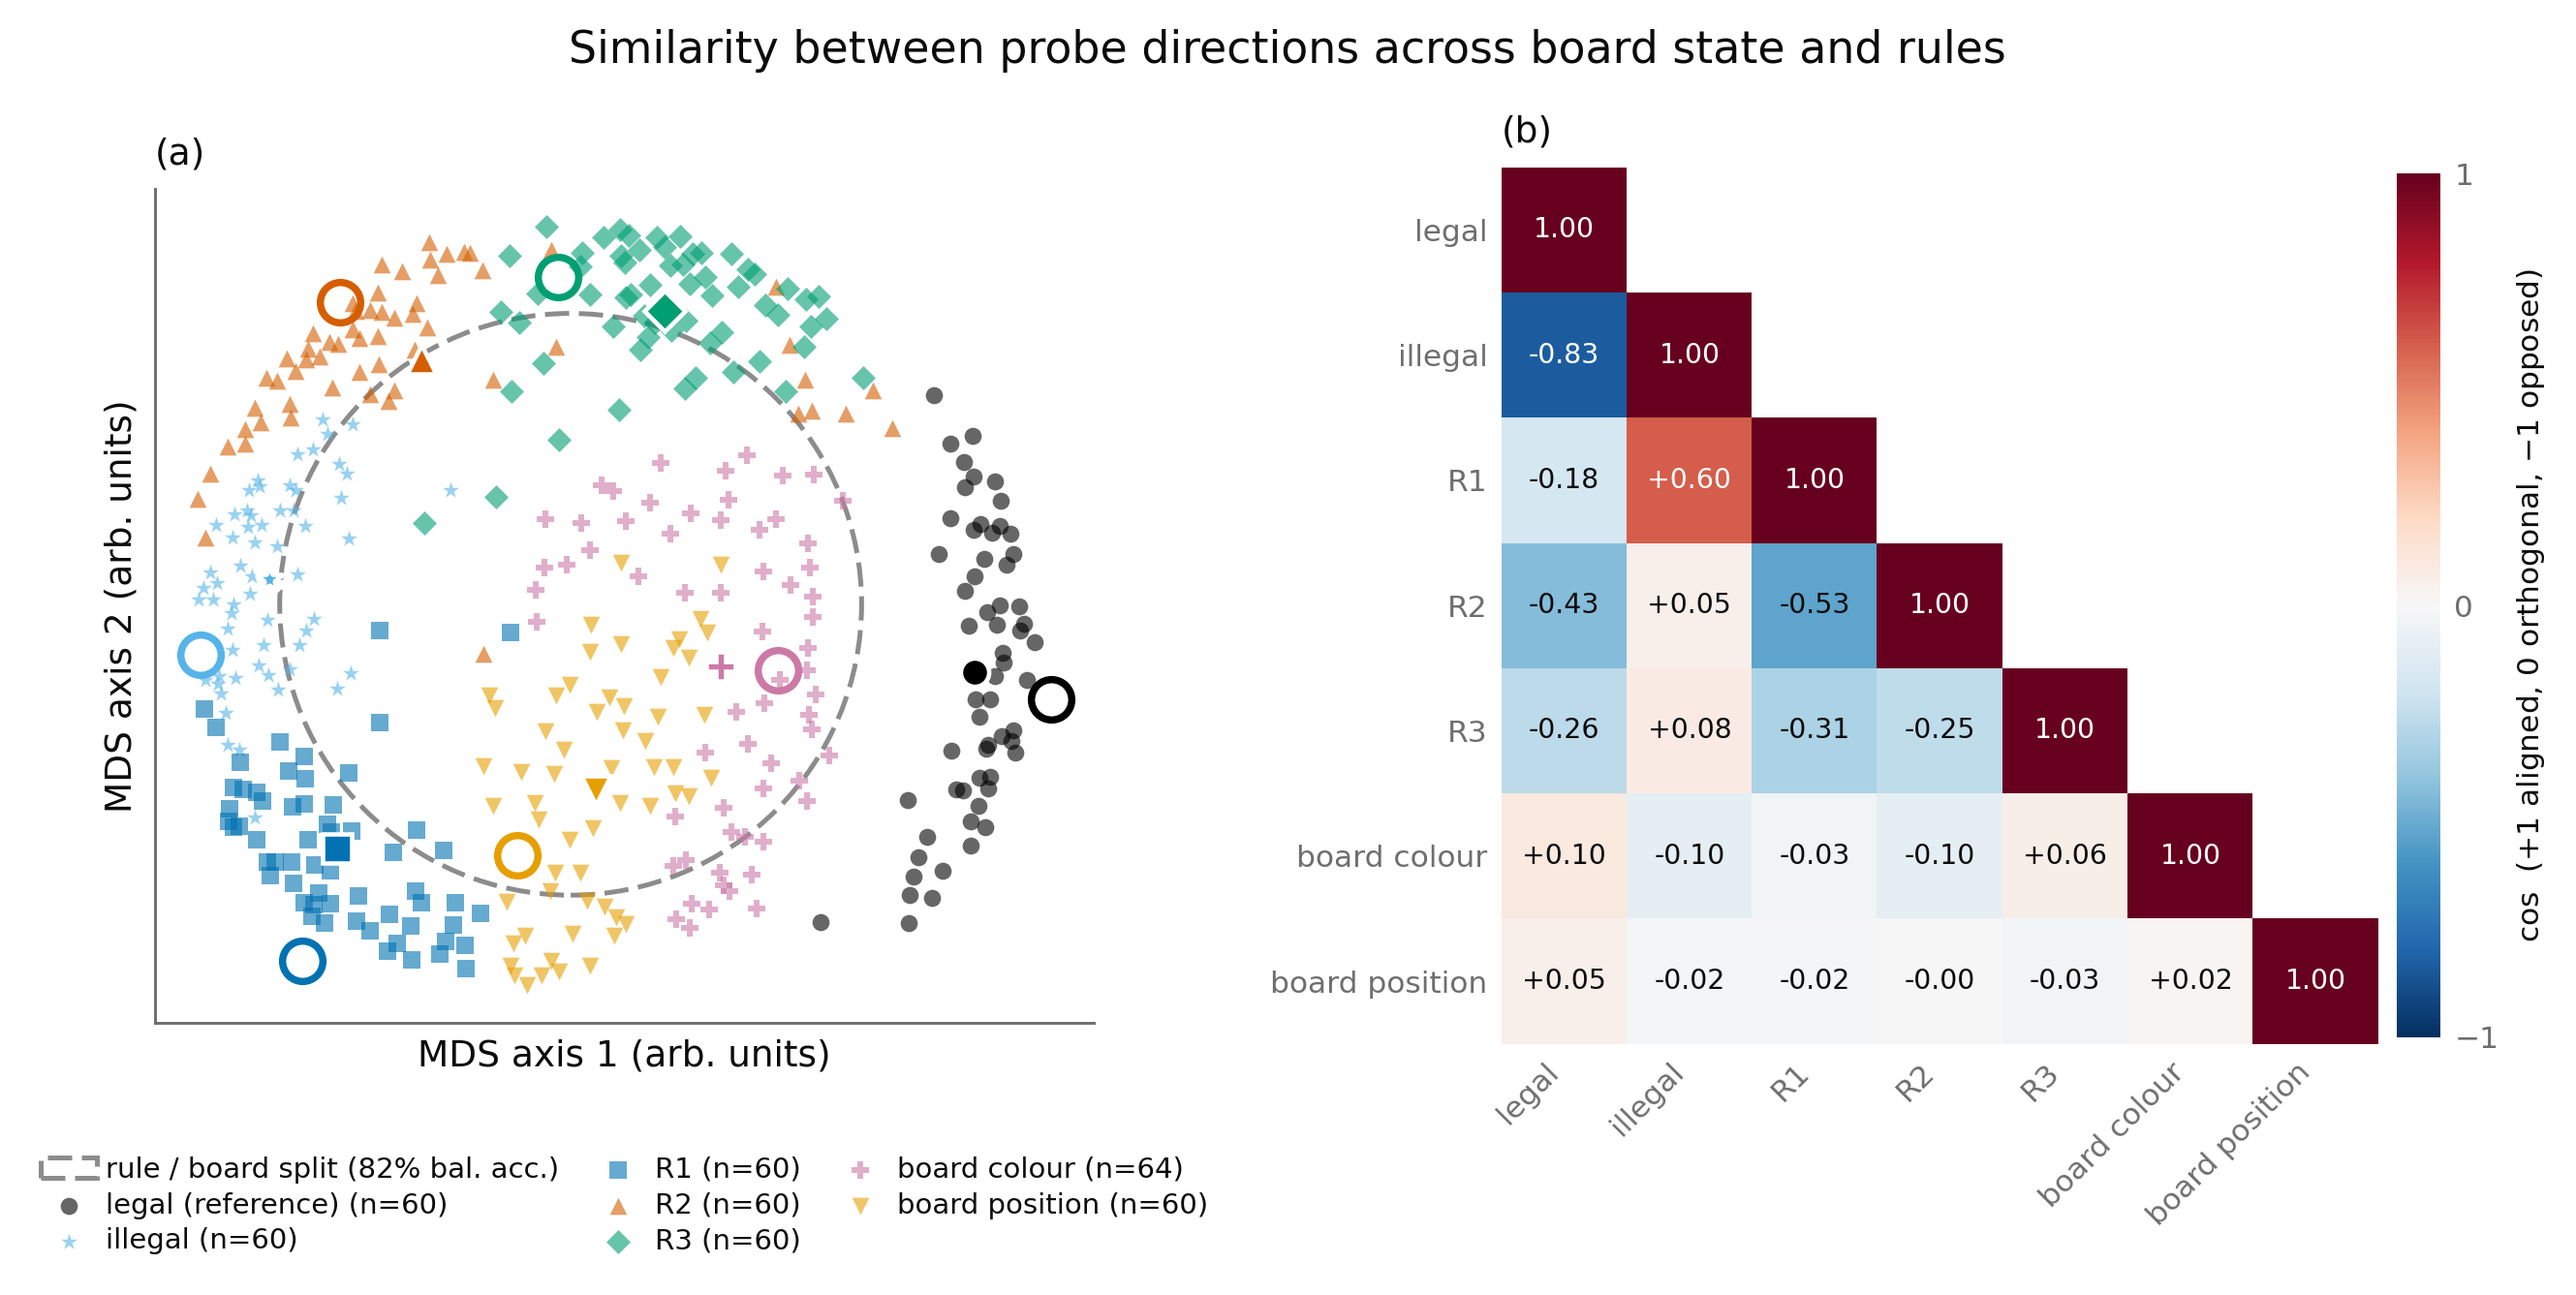
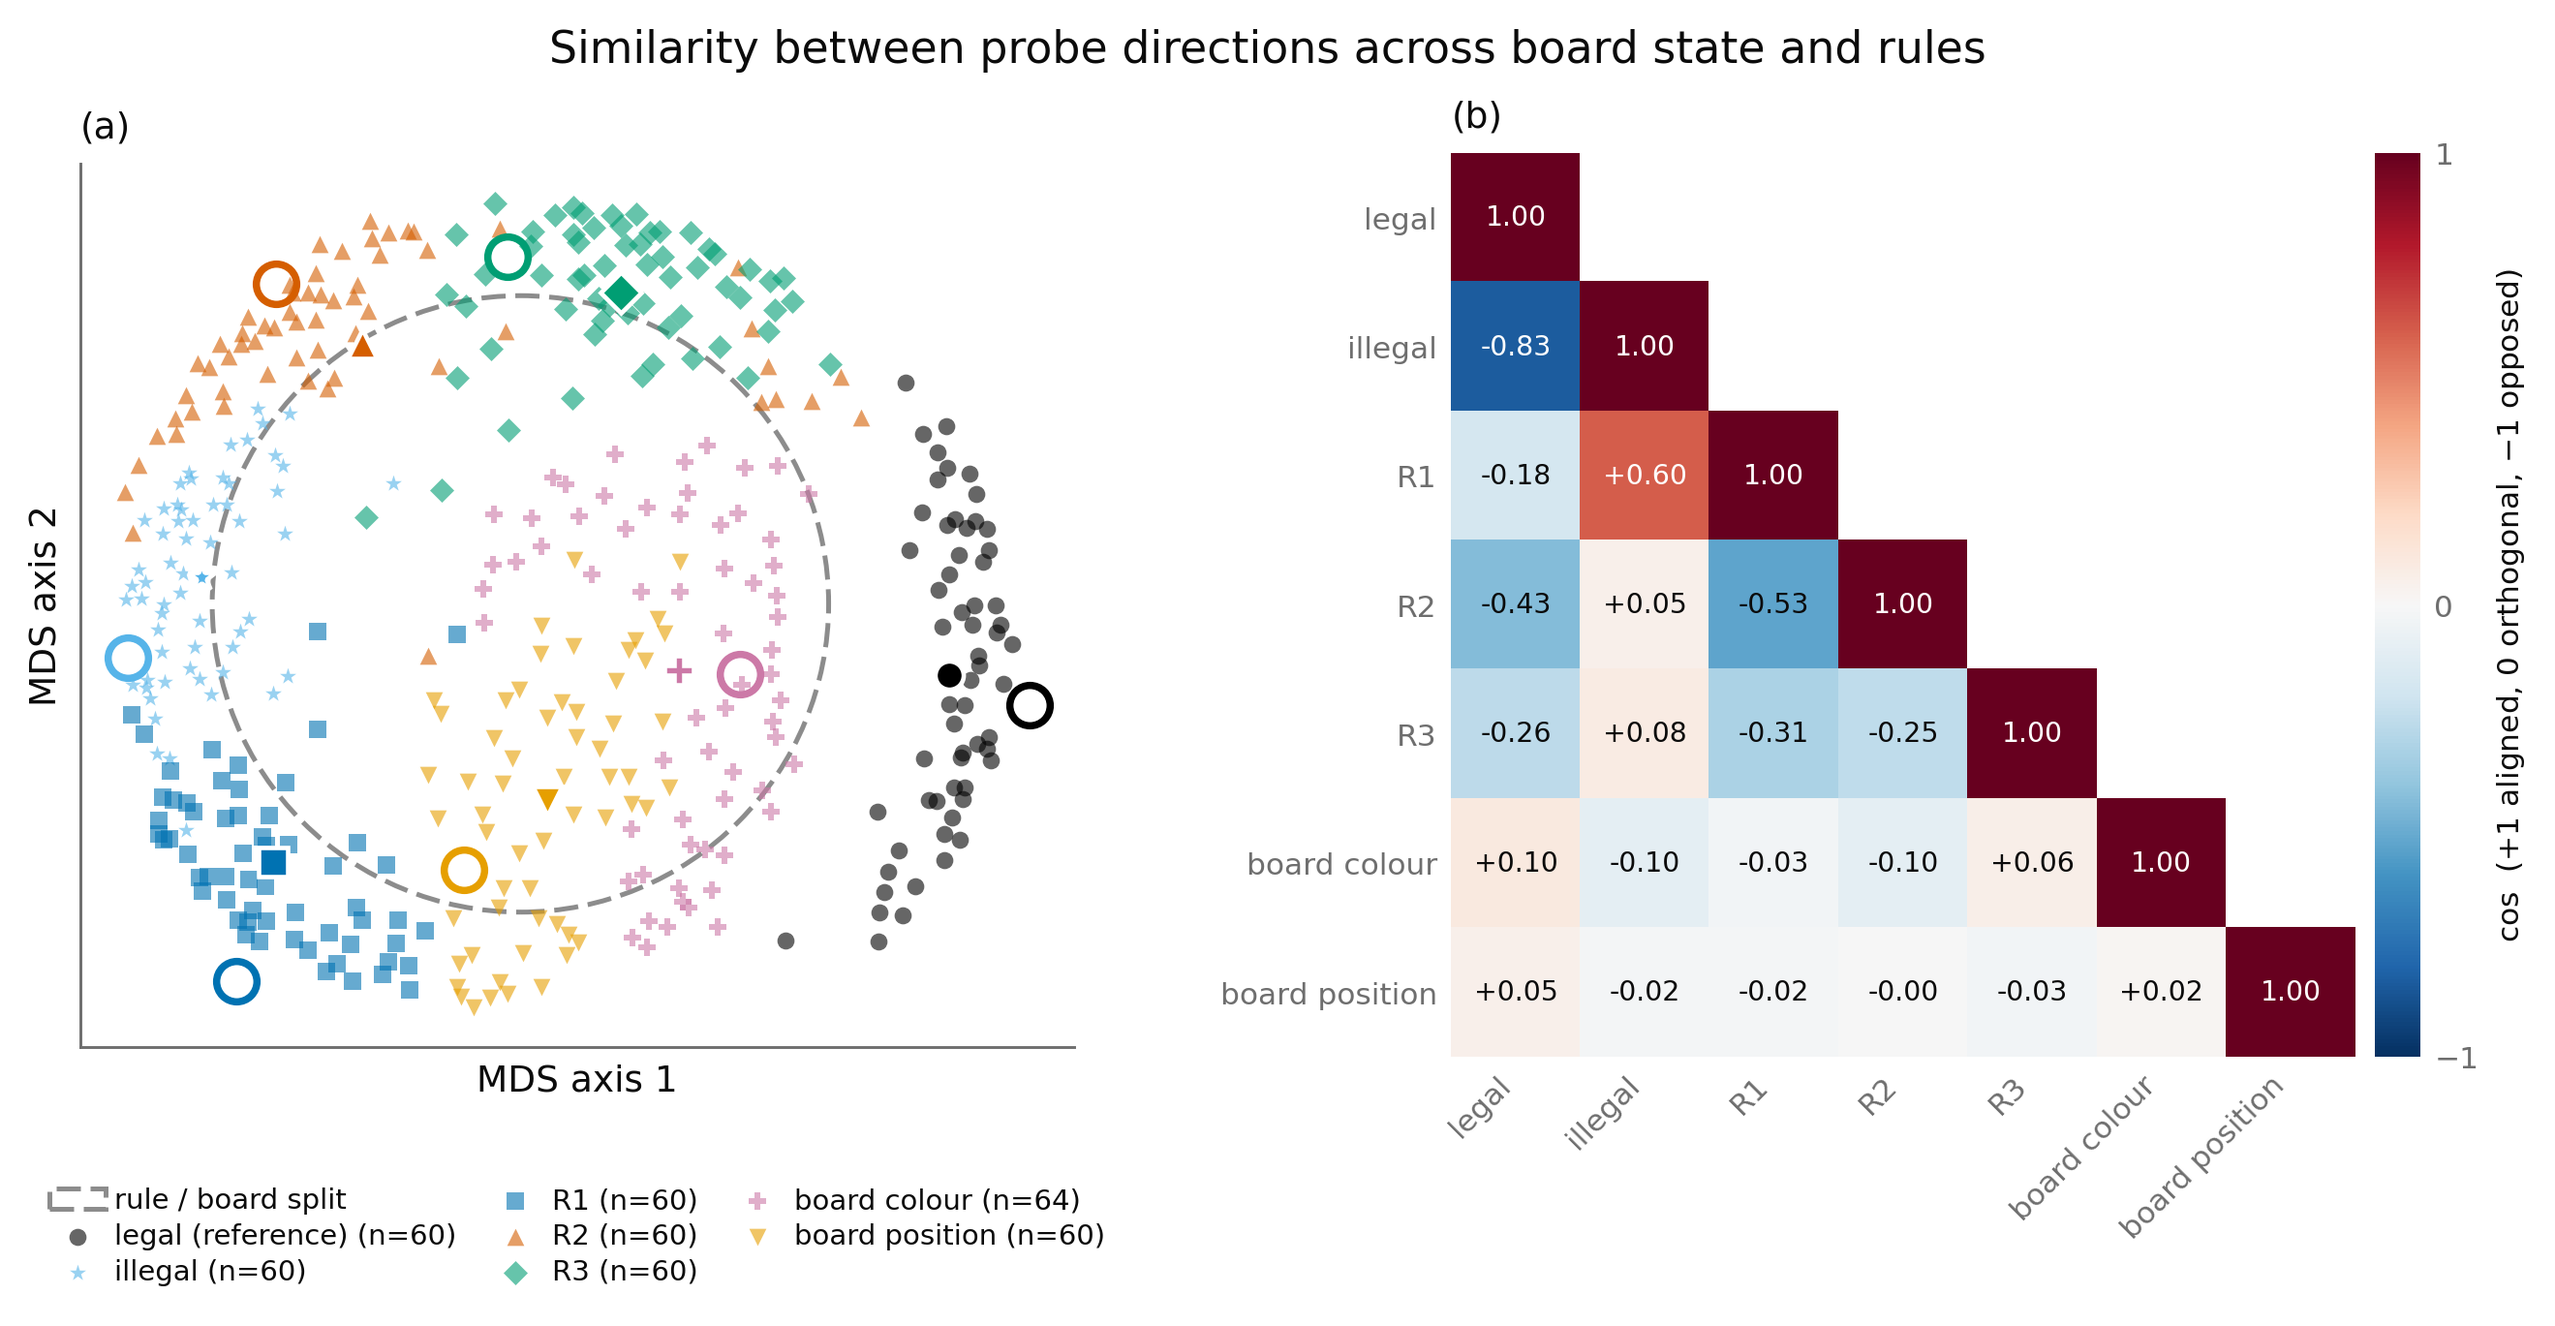
Fig 1(a): plainer axis labels and ring key
`(arb. units)` and the ring's balanced accuracy come off the canvas. Both were
saying something true that a reader still needs, so both stay in the study
README's Figure notes, and §4.10 now says that is where they may live rather than
requiring them in-panel.

diff --git a/analysis/probe_geometry/make_figures.py b/analysis/probe_geometry/make_figures.py
@@ -42,7 +42,7 @@ def embed_panel(ax, points: pd.DataFrame, probes: pd.DataFrame,
     centre = points[["x", "y"]].to_numpy().mean(0)
     ax.add_patch(Circle(centre, row.ring_radius, fill=False, color=NULL["color"],
                         ls=(0, (5, 2)), lw=1.2, zorder=2,
-                        label=f"rule / board split ({row.ring_balanced_accuracy:.0%} bal. acc.)"))
+                        label="rule / board split"))
     for family in DIRECTION_ORDER:
         style, at = DIRECTION_STYLE[family], points[points.family == family]
         xy = at[["x", "y"]].to_numpy()
@@ -59,8 +59,8 @@ def embed_panel(ax, points: pd.DataFrame, probes: pd.DataFrame,
     ax.set_aspect("equal")
     ax.set_xticks([])
     ax.set_yticks([])
-    ax.set_xlabel("MDS axis 1 (arb. units)")
-    ax.set_ylabel("MDS axis 2 (arb. units)")
+    ax.set_xlabel("MDS axis 1")
+    ax.set_ylabel("MDS axis 2")
     # No legend title: what the markers mean, the missing origin, the monotone-not-
     # proportional distance and the fidelity all live in the README's Figure notes.
     ax.legend(loc="upper center", bbox_to_anchor=(0.5, -0.13), ncol=3, fontsize=7,

diff --git a/FIGURE_GUIDELINES.md b/FIGURE_GUIDELINES.md
@@ -474,8 +474,10 @@ it is what unrelated vectors in a high-dimensional space do by default.
   a metric, which 1 − cos is not — with nonmetric (ordinal) MDS, which fits only
   the rank order of the angles. Label the axes `arb. units`, report **rank
   fidelity** (Spearman between the true angles and the drawn distances, over all
-  pairs) instead of a variance ratio, and say in the panel that distance is
-  monotone in angle, not proportional to it.
+  pairs) instead of a variance ratio. That the coordinates are arbitrary and that
+  distance is monotone in angle rather than proportional to it has to be stated,
+  but it can live in the study README's Figure notes rather than on the canvas —
+  a scatter carrying three lines of its own caption is the thing §5 is against.
 - **An ordinal embedding ships with a structure-free null.** A plane can always
   render class *means*; that is most of what it renders. Rebuild the cloud
   keeping each family's mean direction and replacing the residuals with
